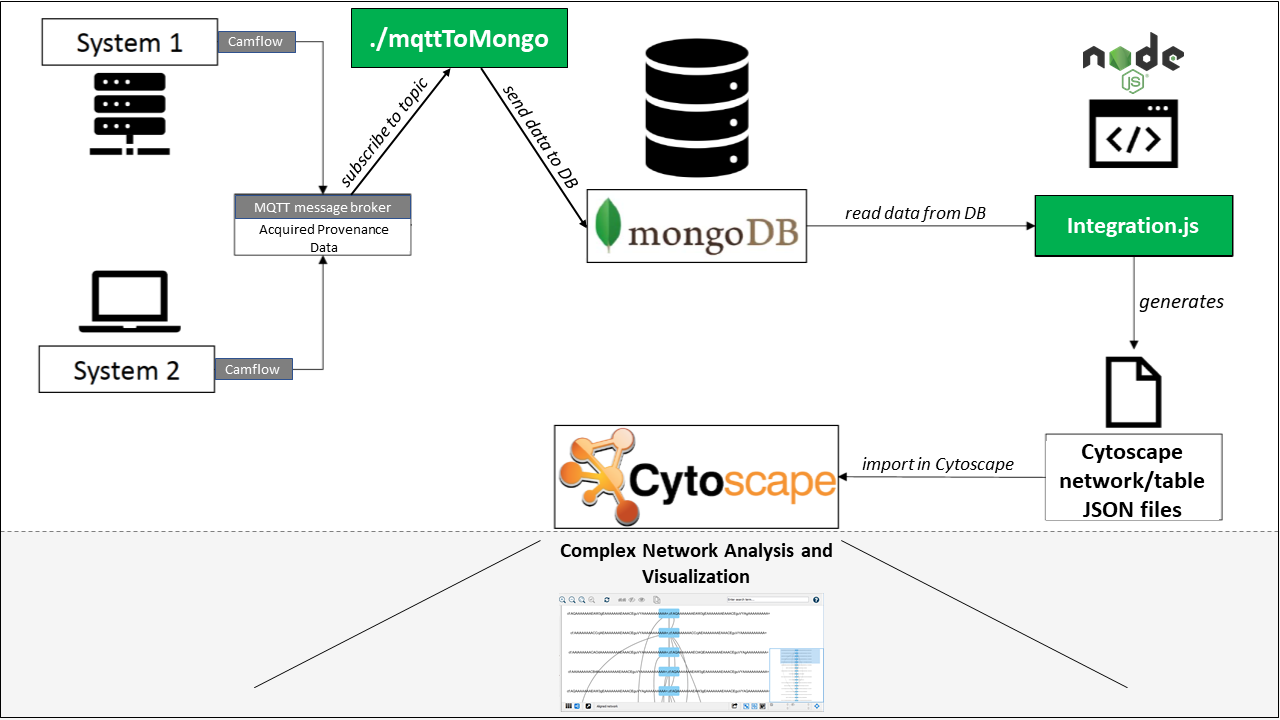
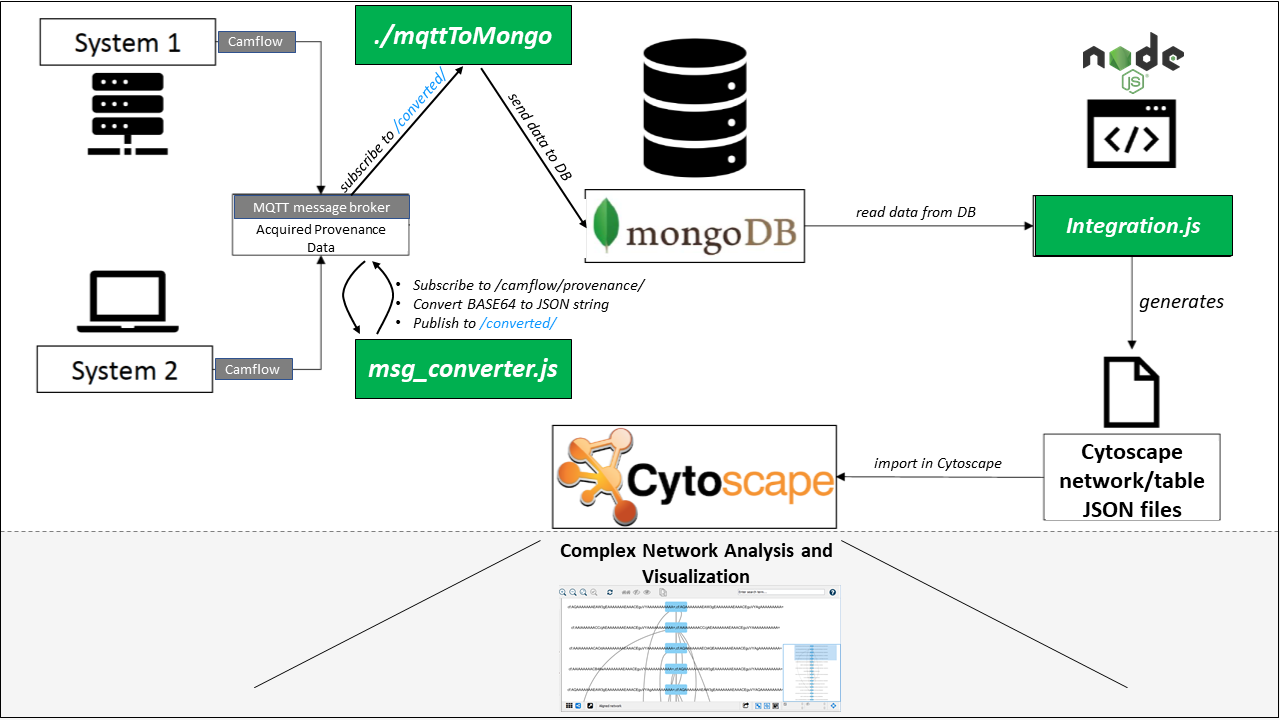
added message converter for mqtt

diff --git a/msg_converter.js b/msg_converter.js
@@ -1,0 +1,193 @@
+
+var mqtt = require('mqtt');
+var atob = require('atob');
+var btoa = require('btoa');
+var pako = require('pako');
+const zlib = require('zlib');
+var count =0;
+
+// get data
+var client  = mqtt.connect("mqtt://127.0.0.1",{clientId:"transformerjs" , port: 1883     });
+//var client  = mqtt.connect("mqtt://192.168.178.37",{clientId:"mqttjs01" , port: 1883     });
+console.log("connected flag  " + client.connected);
+
+
+// resend data
+var client2retransmit  = mqtt.connect("mqtt://127.0.0.1",{clientId:"transformerjs_retransmit" , port: 1883     });
+//var client  = mqtt.connect("mqtt://192.168.178.37",{clientId:"mqttjs01" , port: 1883     });
+console.log("connected flag  " + client2retransmit.connected);
+
+
[1 lines of base64/hex data omitted]
+
+
+
+
+
+
+//handle incoming messages
+client.on('message',function(topic, message, packet){
+	// console.log("#vomServer#"+   message );
+	// console.log("#gutVergleich#"+   message2 );
+	// console.log("message is "+   inflateB64(message) );
+	console.log("topic is "+ topic);
+	// ##############
+	// resend data to message broker
+	//var optionsresend={
+	//retain:true,
+	//qos:1};
+
+	inflateB64(message);
+
+	//client2retransmit.publish("/transformed/1",  inflateB64(message)   ,optionsresend);
+	
+	
+});
+
+
+// connected
+client.on("connect",function(){	
+	console.log("connected  "+ client.connected);
+})
+client2retransmit.on("connect",function(){	
+	console.log("connected  "+ client2retransmit.connected);
+})
+
+
+
+
+
+//handle errors
+client.on("error",function(error){
+	console.log("Can't connect" + error);
+	process.exit(1)
+});
+client2retransmit.on("error",function(error){
+	console.log("Can't connect" + error);
+	process.exit(1)
+});
+
+
+
+
+
+//publish
+function publish(topic,msg,options){
+console.log("publishing",msg);
+
+if (client.connected == true){
+	// client.publish(topic,msg,options);
+}
+count+=1;
+if (count==-1) //end script
+	clearTimeout(timer_id); //stop timer
+	client.end();	
+}
+//////////////
+
+
+
+var options={
+retain:true,
+qos:1};
+var topic="camflow/provenance/#";
[1 lines of base64/hex data omitted]
+var topic_list=["topic2","topic3","topic4"];
+var topic_o={"topic22":0,"topic33":1,"topic44":1};
+console.log("subscribing to topics");
+client.subscribe(topic,{qos:1}); //single topic
+// client.subscribe(topic_list,{qos:1}); //topic list
+// client.subscribe(topic_o); //object
+
+// var timer_id=setInterval(function(){publish(topic,message,options);},5000);
+// notice this is printed even before we connect
+console.log("end of script");
+
+
+
+
+
+
+
+function inflateB64( str){
+	/* convert from B64 to byteArray */
+	// str = 'data:text/plain;base64,' + str ;
+	var byteCharacters = atob( str);
+	// console.log(byteCharacters);
+	var byteNumbers = new Array(byteCharacters.length);
+	// for (var i = 0; i < byteCharacters.length; i++) {
+	// 	byteNumbers[i] = byteCharacters.charCodeAt(i);
+	// }
+	// var byteArrayok = new Uint8Array(byteNumbers);
+	// 
+	// console.log("in:#" + byteArrayok + "#");
+	
+	
+	
+	
+	var fs = require("fs");
+	
+	const b64File = require('base64-file-encoder');
+	
+	var returnstring = "";
+	
+	
+	
+	fs.writeFile('base64_2'    ,  new Buffer.from( str , 'base64' ), "binary", (err) => {
+		if (err) throw err;
+	  	
+		// base64 decodes the content of bar.txt and outputs it to foo.txt
+		b64File.decode( "base64_2").then(function(){
+			  
+			// if bar.txt content was 'Zm9v', foo.txt content will be 'foo'
+			// console.log('file was decoded');
+			
+			//console.log('It\'s saved!');
+			fs.readFile("base64_2", function (err, data) {
+				if (err) throw err;
+				// console.log(data.toString());
+				zlib.inflate(data, (err, buffer) => {
+				if (!err) {
+					//console.log(buffer.toString());
+					returnstring = buffer.toString() ;
+					// console.log( returnstring );
+					// return returnstring;
+
+
+				        var optionsresend={
+        				retain:true,
+        				qos:1};
+
+				        client2retransmit.publish("/converted/1",  returnstring   ,optionsresend);
+
+
+
+				  } else {
+					console.log(err);
+				  }
+				});
+			}  );			
+		  })
+		  .catch(function(error){
+			console.log(error);
+		  });		
+	});
+	
+	
+	/*
+	const buffer = Buffer.from( byteArray );
+	zlib.inflate(buffer, (err, buffer) => {
+	  if (!err) {
+		console.log(buffer.toString());
+	  } else {
+		console.log(err);
+	  }
+	});
+	*/
+	
+	// return returnstring ;
+}
+
+
+
+
